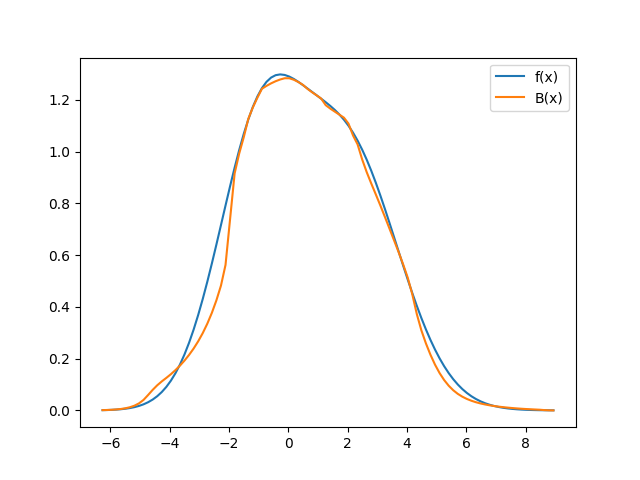
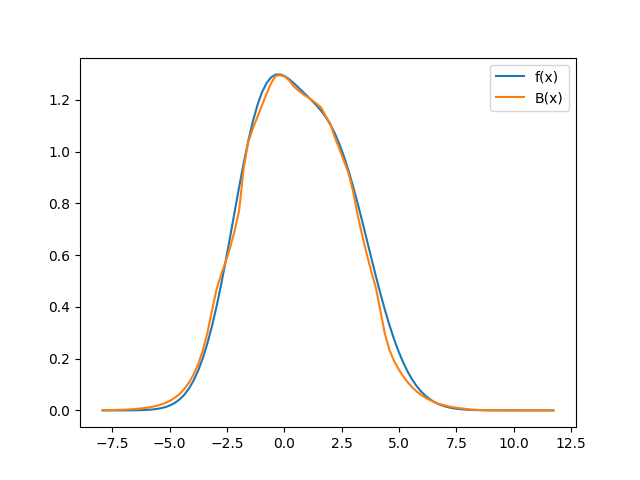
Here Today

diff --git a/variational/nonparam_lsvi.py b/variational/nonparam_lsvi.py
@@ -6,7 +6,7 @@ from variational.log_concave_sampler import spline_log_concave_sampler
 from variational.spline_estimation import get_BSpline_decomposition
 from variational.optimization import find_mode
 
-epsilon = 0.5
+eps = 0.2
 
 
 def nonparam_lsvi(f, initial_mode, initial_sampler, order=4, N=20, rho=0.5, lam=1e-2, Constraint="Concavity",
@@ -20,8 +20,10 @@ def nonparam_lsvi(f, initial_mode, initial_sampler, order=4, N=20, rho=0.5, lam=
 
     j = 0
 
+    B = lambda x: f(x)
+
     while True and j < max_iter:
-        Beta, BSpline_Basis = get_BSpline_decomposition(f=f, X=my_samples, order=order, Constraint=Constraint, lam=lam)
+        Beta, BSpline_Basis = get_BSpline_decomposition(f= lambda x: (1-eps)*f(x)+ eps*B(x), X=my_samples, order=order, Constraint=Constraint, lam=lam)
         approx_curve = Curve(BSpline_Basis, Beta)
         knots = BSpline_Basis.knots
 
@@ -40,11 +42,18 @@ def nonparam_lsvi(f, initial_mode, initial_sampler, order=4, N=20, rho=0.5, lam=
             return (deriv_matrix @ Beta.reshape(-1, 1))[0]
 
         def B(x):
-            if x > knots[order + N]:
-                return B_Prime(knots[order + N]) * (x - knots[-1]) + approx_curve.evaluate(knots[order + N])[0]
-            elif x < knots[order]:
-                return B_Prime(knots[order]) * (x - knots[0]) + approx_curve.evaluate(knots[order])[0]
-            return approx_curve.evaluate(x)[0]
+            x = np.atleast_1d(x)
+            result = np.zeros_like(x, dtype=float)
+            for i, xi in enumerate(x):
+                if xi > knots[order + N]:
+                    result[i] = B_Prime(knots[order + N]) * (xi - knots[-1]) + approx_curve.evaluate(knots[order + N])[0]
+                elif xi < knots[order]:
+                    result[i] = B_Prime(knots[order]) * (xi - knots[0]) + approx_curve.evaluate(knots[order])[0]
+                else:
+                    result[i] = approx_curve.evaluate(xi)[0]
+            if result.shape == ():
+                return result.item()
+            return result
 
         x_axis = np.linspace(a, b, 100)
         y_f = np.array([f(x) for x in x_axis])
@@ -59,8 +68,6 @@ def nonparam_lsvi(f, initial_mode, initial_sampler, order=4, N=20, rho=0.5, lam=
         plt.savefig(f'experiments/graphs/lsvi_steps/{j}.png')
         plt.close()
 
-        # if np.abs(Beta[0]) < eps and np.abs(Beta[-1]) < eps:
-        #    return approxList
         my_new_mode = find_mode(B, warm_start=my_mode, bounds={(1.5 * a, 1.5 * b)})
         _, my_sampler = spline_log_concave_sampler(B, B_Prime, mode=my_mode,
                                                    interval_for_finding_sz=(2 * a - my_new_mode, 2 * b - my_new_mode),

diff --git a/experiments/logdens_lsviapprox.py b/experiments/logdens_lsviapprox.py
@@ -3,7 +3,7 @@ from variational.nonparam_lsvi import nonparam_lsvi
 from experiments.problems import log_gaussian, log_shifted_scaled_gaussian, log_mixture_of_gaussian
 from variational.laplace import laplace_approximation
 
-N = 50
+N = 500
 order = 4
 rho = 0.5
 lam = 1e-0
